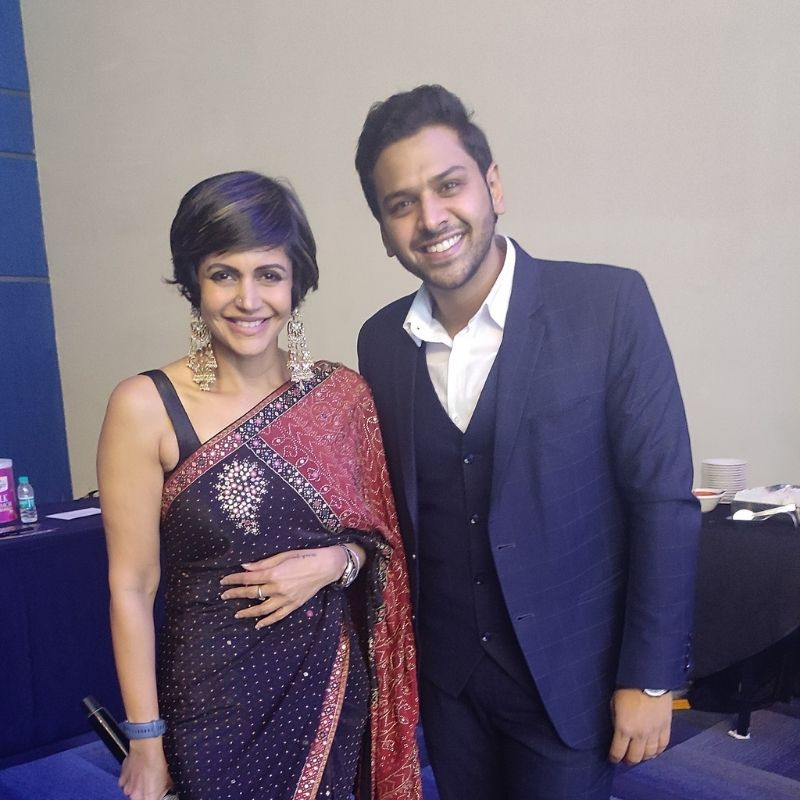
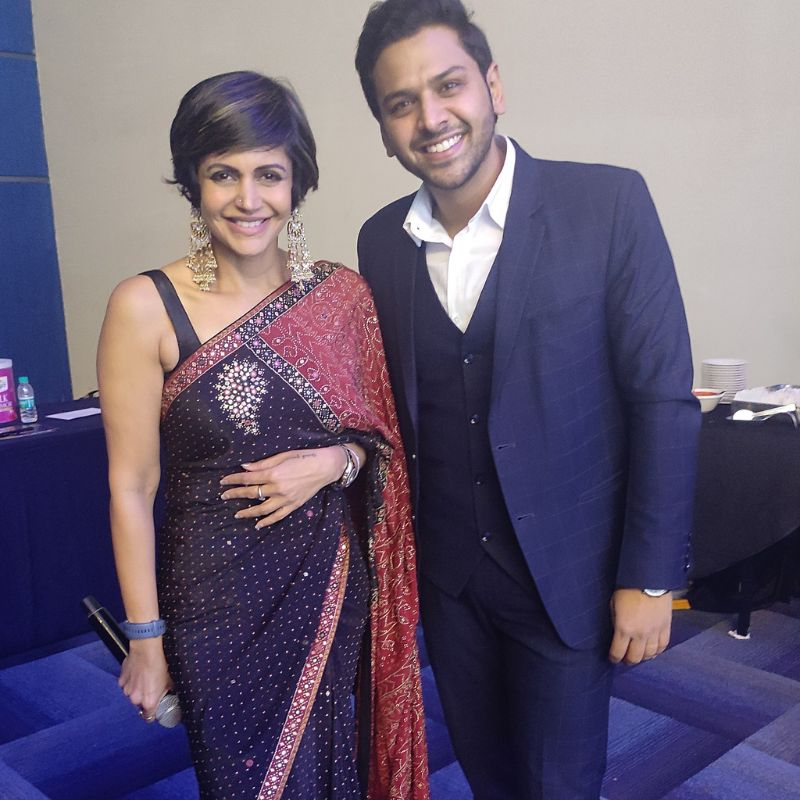
Update images, About layout, and ContactForm copy

diff --git a/src/components/ContactForm/ContactForm.jsx b/src/components/ContactForm/ContactForm.jsx
@@ -6,7 +6,7 @@ const ContactForm = () => {
     <div className="contact-form">
       <div className="contact-form-row">
         <div className="contact-form-row-copy-item">
-          <p className="primary sm">Let’s create together</p>
+          <p className="primary sm"></p>
         </div>
         <div className="contact-form-row-copy-item"></div>
         <div className="contact-form-row-copy-item">

diff --git a/src/pages/About/About.jsx b/src/pages/About/About.jsx
@@ -225,7 +225,7 @@ const About = () => {
             </div>
 
             <div className="bento-item bento-img bento-col-4 bento-row-1">
-              <img src={imgs[1]?.url || "/home/carousel-1-min.jpg"} alt="Stage Highlights" />
+              <img src={"home/about-end.jpg"} alt="Stage Highlights" style={{ objectPosition: 'top' }} />
             </div>
 
           </div>
